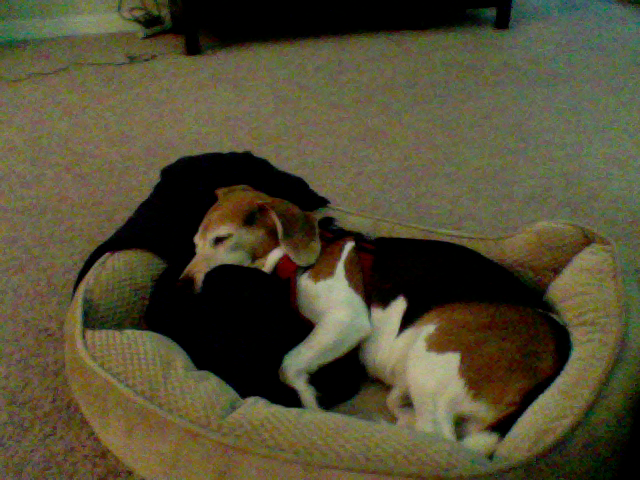
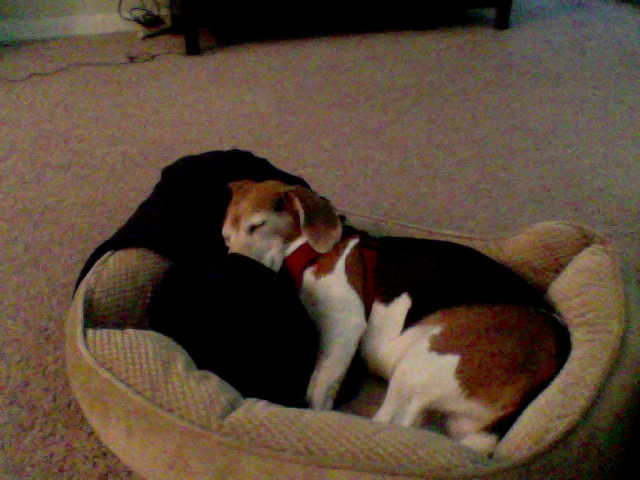
update at Month05Day12Time11:07

diff --git a/index.html b/index.html
@@ -39,8 +39,8 @@
       <!-- Example row of columns -->
       <div class="row">
         <div class="col-md-4">
-	<p>This picture was updated at Month05Day12Time11:06</p>
-		<img src="9_pic.png" />
+	<p>This picture was updated at Month05Day12Time11:07</p>
+		<img src="10_pic.png" />
         </div>
       </div>
 
